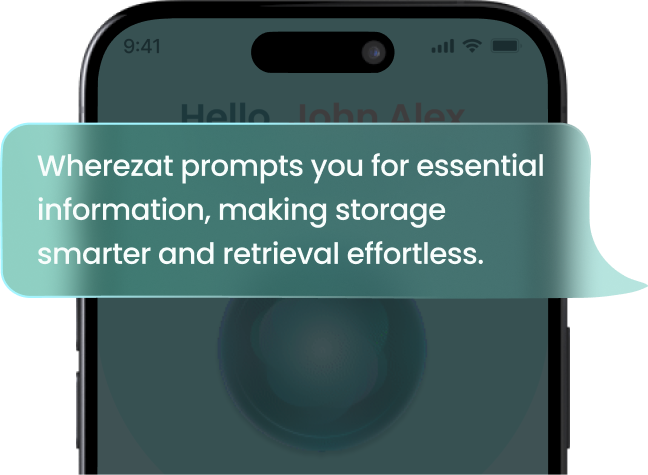
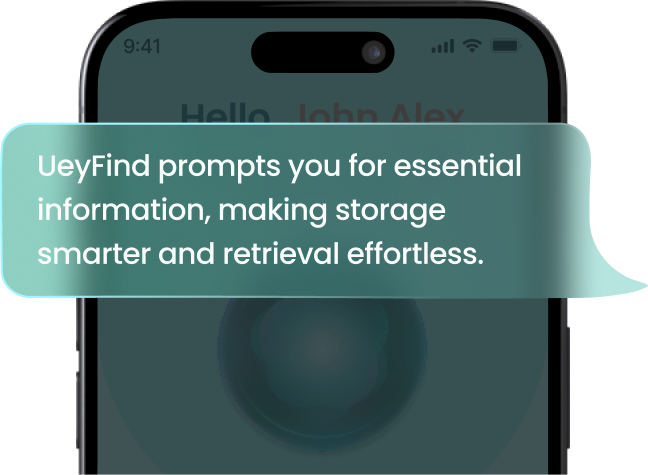
changes

Changed region(s): [[0.0617, 0.3242, 0.8642, 0.3832]]

diff --git a/app/components/ChatBubbles.tsx b/app/components/ChatBubbles.tsx
@@ -33,16 +33,16 @@ const BUBBLES: Bubble[] = [
     top: "73%",
   },
   {
-    img: "/Ellipse223.png",
-    name: "Talon Bhiel Madsen",
-    text: "Hey UeyFind, Put the extra ketchup in the kitchen cabinet.",
+    img: "/Ellipse224.png",
+    name: "Marcus Chen",
+    text: "Hey UeyFind, My passport is in the office desk's top drawer.",
     left: "-28%",
     top: "85%",
   },
   {
-    img: "/Ellipse223.png",
-    name: "Talon Bhiel Madsen",
-    text: "Hey UeyFind, Put the extra ketchup in the kitchen cabinet.",
+    img: "/Ellipse227.png",
+    name: "Sarah Kim",
+    text: "Hey UeyFind, The spare car keys are in the hallway bowl.",
     left: "78%",
     top: "7%",
   },
@@ -94,8 +94,8 @@ const M_BUBBLES: MobBubble[] = [
   // },
   {
     img: "/Ellipse227.png",
-    name: "Desirae Lubin",
-    text: "Hey UeyFind, I kept the gate batteries in the living room shelf drawer.",
+    name: "Sarah Kim",
+    text: "Hey UeyFind, The spare car keys are in the hallway bowl.",
     left: "40%",
     top: "29%",
     side: "left",

diff --git a/app/components/HowItWorks.tsx b/app/components/HowItWorks.tsx
@@ -1,13 +1,13 @@
 import Image from "next/image";
 import Reveal from "./Reveal";
 
-export default function HowItWorks() {
+export default function HowItWorks({ title = "How UeyFind Works" }: { title?: string }) {
   return (
     <section id="how-it-works" className="bg-white py-16 sm:py-20">
       <div className="mx-auto max-w-[1920px] px-5 sm:px-8 lg:px-[110px]">
         <div className="mx-auto max-w-3xl text-center">
           <Reveal as="h2" className="font-poppins font-bold text-brand-deep text-[clamp(1.875rem,3vw,2.75rem)] leading-tight">
-            How UeyFind Works
+            {title}
           </Reveal>
           <Reveal as="p" delay={120} className="mt-4 font-poppins text-sm leading-relaxed text-brand-dark/60 sm:text-base">
             UeyFind makes remembering effortless. Just speak to save anything—items,
@@ -55,11 +55,11 @@ export default function HowItWorks() {
             </Card>
             </Reveal>
 
-            {/* Card 3 - Capture to Remember (mint, heading top / phone below w/ bubble) */}
+            {/* Card 3 - Smart Prompts (mint, heading top / phone below w/ bubble) */}
             <Reveal variant="scale" delay={240} className="@5xl/grid:col-span-3">
             <Card tone="mint" className="@container/card flex h-full flex-col items-center gap-5 pt-8 text-center sm:pt-10">
               <h3 className="font-poppins font-bold text-brand-deep text-[clamp(1.5rem,8cqw,2.67rem)]">
-                Capture to Remember
+                Smarter Storage
               </h3>
               <div className="flex w-full flex-1 items-end justify-center">
                 <Phone src="/frame3.png" alt="Capture to remember screen" className="w-[min(500px,90cqw)]" />

diff --git a/app/how-it-works/page.tsx b/app/how-it-works/page.tsx
@@ -82,7 +82,7 @@ export default function HowItWorksPage() {
         subtitle="From your voice to instant recall in seconds—here's how UeyFind stores and retrieves everything you tell it."
       />
 
-      <HowItWorks />
+      <HowItWorks title="Speak It, Save It, Find It" />
 
       {/* Numbered steps */}
       <section className="bg-brand-cream py-16 sm:py-20 lg:py-28">